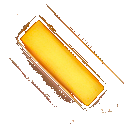
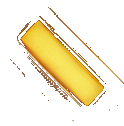
faces: the cats as tuned — Mars and the ice moon lose the badge, the cat standing straight on the step cleaned in their new pictures, Mars's cut in ginger a shade darker, the ice moon's flat in a neutral white; the cockpit's at rest darker and more violet, Titan's whiter; the engraving's lip takes a

diff --git a/src/redpaw/RedPawSkin.cpp b/src/redpaw/RedPawSkin.cpp
@@ -40,7 +40,10 @@ const channels::Lineup& marsLineup()
 //==============================================================================
 // THE DASHBOARD, MEASURED (RedPawLayout.h): its picture is the one the rovers' plan is measured off, so
 // what it measures is the plan as it stands.
-const layout::Plan plan {};
+const layout::Plan plan {
+    // No plate under the cat: it is cut straight into the frame's raised step, as large as the badge's was.
+    .emblemMark { 797.0f, 295.8f, 77.0f, 75.0f },
+};
 
 const Skin& mars()
 {
@@ -58,15 +61,10 @@ const Skin& mars()
             [] { return std::make_unique<PlainsDrive> (numGears (marsLineup())); },     // the drive across Mars
             { "Plains (GPU)", "1993 (CPU)", "Still" },
         };
-        // The cockpit's badge over the picture's steel plate, the plate nearer the dashboard's own metal round it
-        // (#423c38) than the cockpit's near black, the cat on it ginger — leaning to the colour of the plains out
-        // of the window (#8f4b24 on the ground), light enough still to read on the plate.
-        face::BadgeLook badge;
-        badge.plateTop = juce::Colour (0xff47413d);
-        badge.plateBottom = juce::Colour (0xff2c2826);
-        badge.ink = { juce::Colour (0xffebb48e), juce::Colour (0xffb4714b), 0.9f, 0.4f };
-        badge.lamp = juce::Colour (0xffee7a3c);       // ...and the lamp under its glass Mars's own
-        s.badge = badge;
+        // No badge: the cat cut straight into the dashboard's metal, ginger — leaning to the colour of the plains
+        // out of the window (#8f4b24 on the ground), light enough still to read on the rust.
+        s.markInk = { juce::Colour (0xffc29576), juce::Colour (0xff955e3e), 0.9f, 0.4f };
+        s.markLamp = juce::Colour (0xffee7a3c);       // ...and the lamp under its glass Mars's own
         return s;
     }();
     return mars;

diff --git a/src/redpaw/RedPawEditor.cpp b/src/redpaw/RedPawEditor.cpp
@@ -368,14 +368,14 @@ void Dashboard::paintStatic (juce::Graphics& g, float scale) const
         paintBadge (g, plate, { skin.plan.badgeScrews.begin(), skin.plan.badgeScrews.end() }, skin.plan.badgeScrew,
                     skin.plan.badgeMark, scale, *skin.badge);
     }
-    else if (const auto& mark = Art::of (skin).emblem; skin.mark && mark.isValid())
+    else if (const auto& mark = Art::of (skin).emblem; skin.mark && skin.markRender && mark.isValid())
     {
         g.setOpacity (1.0f);
         g.drawImage (mark, skin.plan.emblemMark, juce::RectanglePlacement::centred);
     }
     else if (skin.mark)
     {
-        engraveMark (g, skin.plan.emblemMark, scale);
+        engraveMark (g, skin.plan.emblemMark, scale, skin.markInk);
     }
 
     // A word on the dust: a shadow under it, so it reads off the rust as well as off the bare metal —
@@ -449,7 +449,7 @@ void RedPawEditor::webExtras (const juce::File& dir, juce::DynamicObject& places
         { "turbo-lid", &art.turboLid }, { "emblem", &art.emblem }, { "socket", &art.socket },
         { "key-frame-left", &art.keyFrameLeft }, { "key-frame-cell", &art.keyFrameCell }, { "key-frame-right", &art.keyFrameRight } };
     for (const auto& [name, img] : own)
-        if (! (skin.badge.has_value() && juce::String (name) == "emblem"))     // a skin on the badge shows no render of the mark
+        if (! ((skin.badge.has_value() || ! skin.markRender) && juce::String (name) == "emblem"))     // a skin on the badge, or drawing its mark, shows no render of it
             writeSprite (dir, name, *img);
     writeForWeb (dir.getChildFile ("still.webp"), Art::still (skin));
 

diff --git a/src/frostpaw/FrostPawSkin.cpp b/src/frostpaw/FrostPawSkin.cpp
@@ -73,6 +73,9 @@ const layout::Plan plan {
 
     // TURBO's hole half a pixel right; the hatch's box is RedPawAmp's, where a hatch of its own would go — none yet.
     .turbo { 922.0f, 787.0f },
+
+    // No plate under the cat: it stands straight on the frame's raised step, as large as the badge's was.
+    .emblemMark { 797.0f, 295.8f, 77.0f, 75.0f },
 };
 
 const Skin& ice()
@@ -98,14 +101,11 @@ const Skin& ice()
             [] { return std::make_unique<frostpaw::IceDrive> (numGears (iceLineup())); },
             { "Ice (GPU)", "1993 (CPU)", "Still" },
         };
-        // The cockpit's badge over the picture's plate, the plate a little darker than the steel round it
-        // (#727a81), the cockpit's light cat cut into it, and the lamp under the cat's glass white, as the
-        // snow's light.
-        face::BadgeLook badge;
-        badge.plateTop = juce::Colour (0xff60676e);
-        badge.plateBottom = juce::Colour (0xff4c5258);
-        badge.lamp = juce::Colour (0xfff2f6ff);
-        s.badge = badge;
+        // No badge: the badge's cat on the bare step, flat — neither raised nor cut, its white-grey alone, none
+        // of the cockpit's lilac — and the lamp under it white, as the snow's light.
+        s.markInk = { juce::Colour (0xffe0e0e0), juce::Colour (0xffa4a4a4), 0.0f, 0.0f, juce::Colour (0xffe6e6e6) };     // a neutral white, R = G = B
+        s.markLamp = juce::Colour (0xfff2f6ff);
+        s.markRender = false;
         return s;
     }();
     return ice;

diff --git a/src/face/Controls.h b/src/face/Controls.h
@@ -332,6 +332,7 @@ struct MarkInk
     juce::Colour floorBottom { 0xff4b4858 };
     float shadow = 0.8f;      // the upper wall's shadow, its alpha
     float lip    = 0.28f;     // the lower lip's light, its alpha
+    juce::Colour lipLight { 0xffd8d2ee };     // ...and its colour: the family's lilac, or a face's own
 };
 void engraveMark (juce::Graphics&, juce::Rectangle<float> box, float scale, const MarkInk& = {});
 
@@ -345,7 +346,7 @@ struct BadgeLook
 {
     juce::Colour plateTop    { 0xff24222b };     // the plate, at its top...
     juce::Colour plateBottom { 0xff111016 };     // ...and at its bottom
-    MarkInk ink { juce::Colour (0xffcdc8dc), juce::Colour (0xff8d899e), 0.9f, 0.4f };     // a pale floor, a deep shadow, a bright lip
+    MarkInk ink { juce::Colour (0xff867c98), juce::Colour (0xff564e66), 0.9f, 0.4f };     // a dusky violet floor, a deep shadow, a bright lip
     juce::Colour lamp { 0xff9a7aff };    // the lamp under the cat's frosted glass when the hand is over it (Emblem): the cockpit's violet
     float wear = 1.0f;                   // how worn the plate's face is: fine scratches and scuffs in its own tone; 0 none
 };

diff --git a/src/face/Controls.cpp b/src/face/Controls.cpp
@@ -604,7 +604,7 @@ void engraveMark (juce::Graphics& g, juce::Rectangle<float> box, float scale, co
     const float px = 1.0f / juce::jmax (1.0f, scale) * 1.6f;   // the wall's depth, about a pixel and a half
     g.setColour (juce::Colours::black.withAlpha (ink.shadow));
     g.drawImage (cut, box.translated (-0.5f * px, -px), juce::RectanglePlacement::stretchToFit, true);
-    g.setColour (juce::Colour (0xffd8d2ee).withAlpha (ink.lip));
+    g.setColour (ink.lipLight.withAlpha (ink.lip));
     g.drawImage (cut, box.translated (0.4f * px, px), juce::RectanglePlacement::stretchToFit, true);
     g.setGradientFill (juce::ColourGradient (ink.floorTop, box.getCentreX(), box.getY(),
                                              ink.floorBottom, box.getCentreX(), box.getBottom(), false));

diff --git a/src/amberpaw/AmberPawSkin.cpp b/src/amberpaw/AmberPawSkin.cpp
@@ -234,7 +234,8 @@ const Skin& titan()
         face::Monitor::View::shape,     // ...over the shape the amp gives the sound
         false,                          // parked, the large warning alone
         std::nullopt,                   // no badge: the cat cut straight into the metal between the vents...
-        juce::Colour (0xffffb340),      // ...and lit under the hand amber, Titan's light, as the others' are (Emblem)
+        juce::Colour (0xffd48a45),      // ...and lit under the hand a brownish amber, Titan's haze, as the others' are (Emblem)...
+        face::MarkInk { juce::Colour (0xffa29fb0), juce::Colour (0xff5e5b6c), 0.8f, 0.28f },     // ...its floor a touch whiter than the family's
     };
     return titan;
 }

diff --git a/src/redpaw/RedPawSkin.h b/src/redpaw/RedPawSkin.h
@@ -96,6 +96,13 @@ struct Skin
         lit under the hand all the same (Emblem) — a badge's lamp is its own (BadgeLook::lamp). None if
         transparent. */
     juce::Colour markLamp {};
+
+    /** ...and the ink that bare mark is engraved in (face::MarkInk): the family's, unless the skin says. */
+    face::MarkInk markInk {};
+
+    /** ...and whether a render of the mark the skin ships stands there in its place; false, the mark is drawn in
+        markInk whatever the skin ships. */
+    bool markRender = true;
 };
 
 /** The skin a rover's processor wears (Product::skin). */
